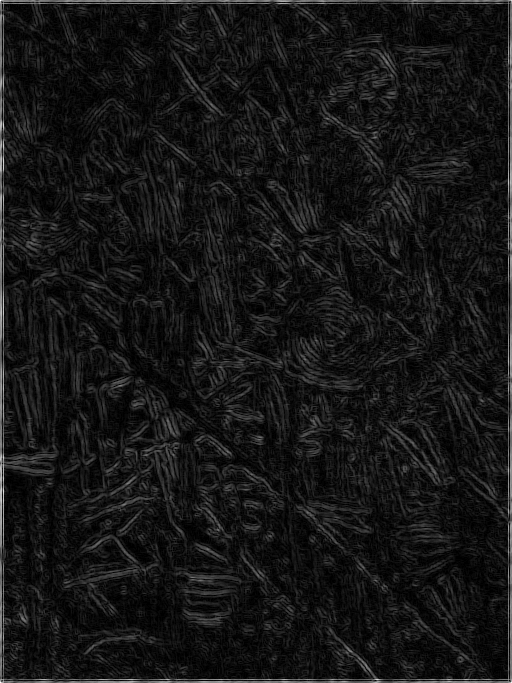
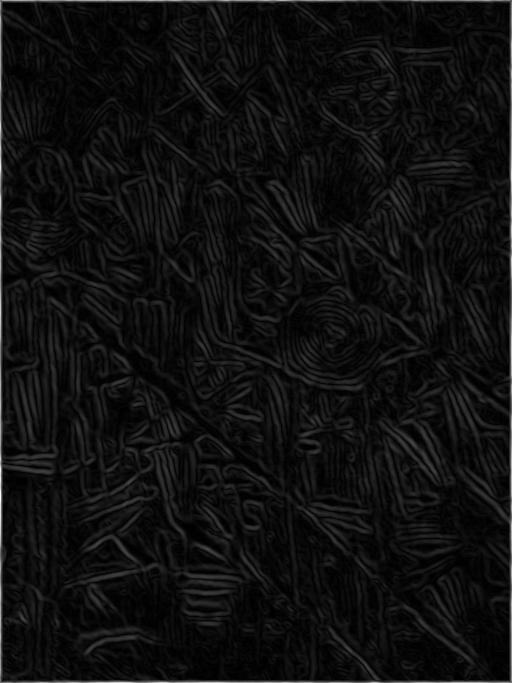
changed sobel input

diff --git a/Assignment 1/codes/main.py b/Assignment 1/codes/main.py
@@ -45,8 +45,8 @@ while(1):
 
 	if operation not in [0, 1, 10]:
 		img_gray = convert_to_grayscale(imgcv)
-		filtered = scaling(img_gray, 3, 5)
-		sharpened = sharpen(filtered)
+		blur = scaling(img_gray, 3, 5)
+		sharpened = sharpen(blur)
 	if operation>=4 and operation<=9:
 		filename = '../images/otsu.png'
 		if os.path.isfile(filename):
@@ -67,7 +67,7 @@ while(1):
 		show_or_print('sharpened.png', sharpened, cmap='gray')
 
 	if operation==3:
-		_, _, grads = edge_sobel(sharpened)
+		_, _, grads = edge_sobel(blur)
 		show_or_print('sobeledges.png',grads, cmap='gray')
 
 	if operation==4:
